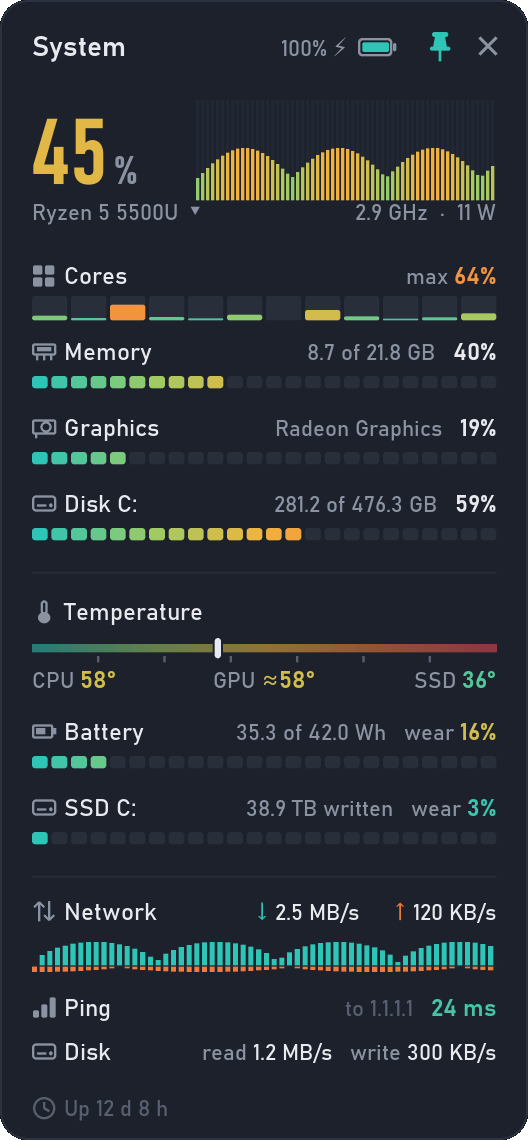
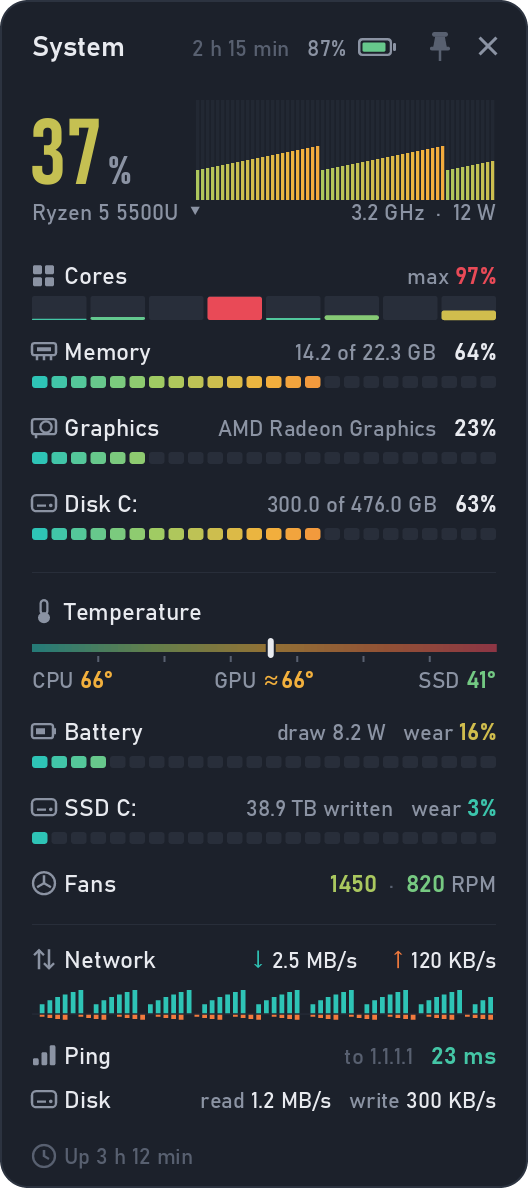
Website: today's pictures, and in Russian on ru.html
The window's pictures (home dark and light, History, a report with
"this game, session by session" and the game's icon) are taken again
from the current build with made-up readings, a game being recorded
and admin rights. The classic widget's pictures still came from 1.8:
the docs example now draws them too (the rows in three groups with the
top cut off, the six widths of "Any shape", the four palettes, the
taskbar panel) with a real processor name. ru.html shows all of them
in Russian from img/ru/ (the tray card's numbers localised); every
<img> carries its picture's size; the PNGs are recompressed losslessly
(8.1 MB of pictures down to 3.4 MB with the Russian ones).

diff --git a/docs/ru.html b/docs/ru.html
@@ -289,11 +289,11 @@
       <p class="news"><b>Новое: PC Monitor 2.0.</b> Переписан с нуля — около 15 МБ памяти вместо 80+, полноценное окно с историей за 30 дней, отчёт о каждой игровой сессии, новый вид виджета и трея. 1.8 обновится сам и сохранит настройки. <a href="https://github.com/vladZah403/pc-widget/releases/latest">Все изменения</a></p>
     </div>
     <div class="pinned">
-      <img src="img/widget-hero.png" width="560" height="648" alt="Виджет PC Monitor: процессор, видеокарта, память и диск C: — кольца с нагрузкой и коротким графиком, скорость сети и пинг">
+      <img src="img/ru/widget-hero.png" width="560" height="648" alt="Виджет PC Monitor: процессор, видеокарта, память и диск C: — кольца с нагрузкой и коротким графиком, скорость сети и пинг">
     </div>
   </div>
   <div class="taskbar" aria-label="Мини-панель на панели задач">
-    <img src="img/taskbar.png" width="503" height="80" alt="Мини-панель: CPU 45%, RAM 40%, скорость загрузки и отдачи, пинг 24 мс, температура процессора и видеокарты">
+    <img src="img/ru/taskbar.png" width="501" height="80" alt="Мини-панель: CPU 37%, RAM 64%, скорость загрузки и отдачи, пинг 23 мс, температура процессора и видеокарты">
     <div class="clock">22:57<br>21.11.2026</div>
   </div>
 </header>
@@ -305,10 +305,10 @@
     <h2>Окно PC Monitor</h2>
     <p>Процессор, видеокарта, память и диск одним взглядом, график нагрузки от минуты до суток, температуры и вентиляторы, сеть и пинг, самые прожорливые программы и игра, в которую ты играешь. Рядом: <strong>История</strong> за 30 дней, <strong>Игры</strong>, <strong>Процессы</strong>, <strong>Оборудование</strong> и <strong>Настройки</strong> — в светлой или тёмной теме. Закроешь окно — виджет, значки в трее и мини-панель продолжат работать.</p>
   </div>
-  <figure class="wide"><img src="img/window.png" width="1280" height="800" alt="Окно PC Monitor: процессор 21%, видеокарта 35%, память 42%, диск C: занят на 76%, график нагрузки, температуры, сеть, прожорливые программы и записываемая игровая сессия"></figure>
+  <figure class="wide"><img src="img/ru/window.png" width="1280" height="800" alt="Окно PC Monitor: процессор 37%, видеокарта 23%, память 64%, диск C: занят на 63%, график нагрузки, температуры, сеть, прожорливые программы и записываемая игровая сессия"></figure>
   <div class="pair">
-    <img src="img/window-light.png" width="1280" height="800" alt="То же окно в светлой теме">
-    <img src="img/history-page.png" width="1280" height="800" alt="История: средние и пиковые значения за последний час, графики нагрузки процессора и видеокарты, температур, памяти и сети">
+    <img src="img/ru/window-light.png" width="1280" height="800" alt="То же окно в светлой теме">
+    <img src="img/ru/history-page.png" width="1280" height="800" alt="История: средние и пиковые значения за последний час, графики нагрузки процессора и видеокарты, температур, памяти и сети">
   </div>
 </section>
 
@@ -319,7 +319,7 @@
     <h2>Виджет — если хочешь</h2>
     <p>Включается в Настройках или клавишами <strong>Ctrl+Alt+W</strong>. Новый вид <strong>«Карточки»</strong>, тёмный или светлый, или компактный список — или <strong>«Классический»</strong> виджет из 1.8 со всем, что в нём было (ниже).</p>
   </div>
-  <figure class="wide plain"><img src="img/widget-cards.png" width="1380" height="558" alt="Виджет в виде «Карточки», тёмный и светлый, и его компактный список"></figure>
+  <figure class="wide plain"><img src="img/ru/widget-cards.png" width="1380" height="558" alt="Виджет в виде «Карточки», тёмный и светлый, и его компактный список"></figure>
 </section>
 
 <div class="meter" aria-hidden="true"></div>
@@ -331,7 +331,7 @@
   </div>
   <div class="groups">
     <div style="--dot: var(--cool)">
-      <figure class="slice"><img src="img/glance-load.png" width="524" height="308" alt="Строки виджета: ядра, память, видеокарта и диски"></figure>
+      <figure class="slice"><img src="img/ru/glance-load.png" width="496" height="308" alt="Строки виджета: ядра, память, видеокарта и диски"></figure>
       <h3>Нагрузка</h3>
       <ul>
         <li><strong>Процессор</strong> с гистограммой за минуту, частотой и мощностью</li>
@@ -341,7 +341,7 @@
       </ul>
     </div>
     <div style="--dot: var(--warm)">
-      <figure class="slice"><img src="img/glance-sensors.png" width="524" height="276" alt="Строки виджета: температуры, батарея и SSD"></figure>
+      <figure class="slice"><img src="img/ru/glance-sensors.png" width="496" height="276" alt="Строки виджета: температуры, батарея и SSD"></figure>
       <h3>Датчики</h3>
       <ul>
         <li><strong>Температура процессора, видеокарты и SSD</strong></li>
@@ -351,7 +351,7 @@
       </ul>
     </div>
     <div style="--dot: var(--max)">
-      <figure class="slice"><img src="img/glance-network.png" width="524" height="188" alt="Строки виджета: график сети, пинг и активность диска"></figure>
+      <figure class="slice"><img src="img/ru/glance-network.png" width="496" height="188" alt="Строки виджета: график сети, пинг и активность диска"></figure>
       <h3>Сеть</h3>
       <ul>
         <li><strong>Загрузка и отдача</strong> с графиком за минуту</li>
@@ -372,7 +372,7 @@
   </div>
   <div class="stage" id="stage">
     <div class="frame" id="frame">
-      <img id="shape" src="img/shape-264.png" width="528" height="1140" alt="Виджет шириной 264 px: одна колонка">
+      <img id="shape" src="img/ru/shape-264.png" width="528" height="1188" alt="Виджет шириной 264 px: одна колонка">
       <button class="edge" id="edge" type="button" aria-label="Потяни, чтобы сделать виджет шире или уже"></button>
     </div>
   </div>
@@ -389,7 +389,7 @@
     <h2>Трей и панель задач</h2>
     <p>До трёх цифр в трее на цветных квадратах — процессор, температура, память, видеокарта. Наведи — появится карточка с подробностями, нажми — откроется окно. Мини-панель на панели задач показывает такую же карточку.</p>
   </div>
-  <figure class="wide plain"><img src="img/tray-card.png" width="1118" height="330" alt="Значки в трее 12, 42, 97 и 66 градусов и карточка процессора в тёмной и светлой теме: нагрузка, температура, частота, самая прожорливая программа"></figure>
+  <figure class="wide plain"><img src="img/ru/tray-card.png" width="1118" height="330" alt="Значки в трее 12, 42, 97 и 66 градусов и карточка процессора в тёмной и светлой теме: нагрузка, температура, частота, самая прожорливая программа"></figure>
 </section>
 
 <div class="meter" aria-hidden="true"></div>
@@ -401,7 +401,7 @@
     <p>Каждая игра записывается. После неё — <strong>отчёт</strong>: средний FPS и просадки, подтормаживания, нагрузка и температуры по времени, что ограничивало FPS, твоя заметка, сравнение с другой сессией и CSV с каждым кадром.</p>
   </div>
   <div class="games-pic">
-    <img src="img/fps-looks.png" width="1689" height="444" alt="FPS-панель поверх игры: карточкой в левом верхнем углу и одной строкой внизу">
+    <img src="img/ru/fps-looks.png" width="1706" height="444" alt="FPS-панель поверх игры: карточкой в левом верхнем углу и одной строкой внизу">
     <p class="caption">Включи оконный режим или «окно без рамки»: поверх эксклюзивного полноэкранного режима Windows не даёт ничего рисовать.</p>
   </div>
 </section>
@@ -409,7 +409,7 @@
 <div class="meter" aria-hidden="true"></div>
 
 <section>
-  <figure class="wide"><img src="img/report.png" width="1280" height="800" alt="Отчёт об игровой сессии: средний FPS 52, 1% low 37, подтормаживаний меньше 0,1%, графики FPS и времени кадра и что ограничивает FPS — видеокарта"></figure>
+  <figure class="wide"><img src="img/ru/report.png" width="1280" height="800" alt="Отчёт об игровой сессии: средний FPS 52, 1% low 37, подтормаживаний меньше 0,1%, эта игра по сессиям, графики FPS и времени кадра и что ограничивает FPS — видеокарта"></figure>
 </section>
 
 <div class="meter" aria-hidden="true"></div>
@@ -420,10 +420,10 @@
     <p>Светлое или тёмное окно. Для виджета: «Карточки» или «Классический», три палитры или два своих цвета, любой размер от 80 до 200%, компактный режим, любая прозрачность; закрепи его на рабочем столе или держи поверх окон. Два профиля, «Работа» и «Игра», у каждого свой вид — «Игра» включается сама, пока ты играешь. Интерфейс на русском, английском, украинском и немецком.</p>
   </div>
   <div class="themes">
-    <figure><img src="img/theme-heat.png" width="528" height="356" alt="Компактный виджет, палитра «Тепло»"><figcaption>Тепло</figcaption></figure>
-    <figure><img src="img/theme-neon.png" width="528" height="356" alt="Компактный виджет, палитра «Неон»"><figcaption>Неон</figcaption></figure>
-    <figure><img src="img/theme-ice.png" width="528" height="356" alt="Компактный виджет, палитра «Лёд»"><figcaption>Лёд</figcaption></figure>
-    <figure><img src="img/theme-custom.png" width="528" height="356" alt="Компактный виджет, свои цвета"><figcaption>Свои цвета</figcaption></figure>
+    <figure><img src="img/ru/theme-heat.png" width="528" height="356" alt="Компактный виджет, палитра «Тепло»"><figcaption>Тепло</figcaption></figure>
+    <figure><img src="img/ru/theme-neon.png" width="528" height="356" alt="Компактный виджет, палитра «Неон»"><figcaption>Неон</figcaption></figure>
+    <figure><img src="img/ru/theme-ice.png" width="528" height="356" alt="Компактный виджет, палитра «Лёд»"><figcaption>Лёд</figcaption></figure>
+    <figure><img src="img/ru/theme-custom.png" width="528" height="356" alt="Компактный виджет, свои цвета"><figcaption>Свои цвета</figcaption></figure>
   </div>
 </section>
 
@@ -481,12 +481,12 @@
   const stage = document.getElementById("stage"), frame = document.getElementById("frame");
   const img = document.getElementById("shape"), edge = document.getElementById("edge");
   const range = document.getElementById("width"), readout = document.getElementById("readout");
-  widths.forEach(w => { const pre = new Image(); pre.src = `img/shape-${w}.png`; });
+  widths.forEach(w => { const pre = new Image(); pre.src = `img/ru/shape-${w}.png`; });
   let step = 0, touched = false;
   const show = i => {
     step = Math.max(0, Math.min(widths.length - 1, i));
     const w = widths[step];
-    img.src = `img/shape-${w}.png`;
+    img.src = `img/ru/shape-${w}.png`;
     img.alt = `Виджет шириной ${w} px: ${words[step]}`;
     frame.style.width = w + "px";
     range.value = step;

diff --git a/docs/index.html b/docs/index.html
@@ -293,7 +293,7 @@
     </div>
   </div>
   <div class="taskbar" aria-label="The mini panel on the taskbar">
-    <img src="img/taskbar.png" width="503" height="80" alt="Taskbar panel: CPU 45%, RAM 40%, download and upload speed, ping 24 ms, CPU and GPU temperature">
+    <img src="img/taskbar.png" width="508" height="80" alt="Taskbar panel: CPU 37%, RAM 64%, download and upload speed, ping 23 ms, CPU and GPU temperature">
     <div class="clock">22:57<br>21.11.2026</div>
   </div>
 </header>
@@ -305,7 +305,7 @@
     <h2>The PC Monitor window</h2>
     <p>Processor, graphics card, memory and drive at a glance, a load chart from one minute to a day, temperatures and fans, network and ping, the busiest programs and the game you are playing. Beside it: <strong>History</strong> for 30 days, <strong>Games</strong>, <strong>Processes</strong>, <strong>Hardware</strong> and <strong>Settings</strong> — light or dark. Close it, and the widget, tray icons and taskbar panel keep going.</p>
   </div>
-  <figure class="wide"><img src="img/window.png" width="1280" height="800" alt="The PC Monitor window: processor 21%, graphics 35%, memory 42%, drive C: 76% used, a load chart, temperatures, network, busiest programs and a game session being recorded"></figure>
+  <figure class="wide"><img src="img/window.png" width="1280" height="800" alt="The PC Monitor window: processor 37%, graphics 23%, memory 64%, drive C: 63% used, a load chart, temperatures, network, busiest programs and a game session being recorded"></figure>
   <div class="pair">
     <img src="img/window-light.png" width="1280" height="800" alt="The same window in the light theme">
     <img src="img/history-page.png" width="1280" height="800" alt="History: averages and peaks of the last hour, CPU and GPU load, temperatures, memory and network charts">
@@ -331,7 +331,7 @@
   </div>
   <div class="groups">
     <div style="--dot: var(--cool)">
-      <figure class="slice"><img src="img/glance-load.png" width="524" height="308" alt="Cores, memory, graphics and disk rows of the widget"></figure>
+      <figure class="slice"><img src="img/glance-load.png" width="496" height="308" alt="Cores, memory, graphics and disk rows of the widget"></figure>
       <h3>Load</h3>
       <ul>
         <li><strong>Processor</strong> with a one-minute histogram, clock and power</li>
@@ -341,7 +341,7 @@
       </ul>
     </div>
     <div style="--dot: var(--warm)">
-      <figure class="slice"><img src="img/glance-sensors.png" width="524" height="276" alt="Temperature, battery and SSD rows of the widget"></figure>
+      <figure class="slice"><img src="img/glance-sensors.png" width="496" height="276" alt="Temperature, battery and SSD rows of the widget"></figure>
       <h3>Sensors</h3>
       <ul>
         <li><strong>CPU, GPU and SSD temperature</strong></li>
@@ -351,7 +351,7 @@
       </ul>
     </div>
     <div style="--dot: var(--max)">
-      <figure class="slice"><img src="img/glance-network.png" width="524" height="188" alt="Network graph, ping and disk activity rows of the widget"></figure>
+      <figure class="slice"><img src="img/glance-network.png" width="496" height="188" alt="Network graph, ping and disk activity rows of the widget"></figure>
       <h3>Network</h3>
       <ul>
         <li><strong>Download and upload</strong> with a one-minute graph</li>
@@ -372,7 +372,7 @@
   </div>
   <div class="stage" id="stage">
     <div class="frame" id="frame">
-      <img id="shape" src="img/shape-264.png" width="528" height="1140" alt="The widget, 264 px wide: one column">
+      <img id="shape" src="img/shape-264.png" width="528" height="1188" alt="The widget, 264 px wide: one column">
       <button class="edge" id="edge" type="button" aria-label="Drag to make the widget wider or narrower"></button>
     </div>
   </div>
@@ -409,7 +409,7 @@
 <div class="meter" aria-hidden="true"></div>
 
 <section>
-  <figure class="wide"><img src="img/report.png" width="1280" height="800" alt="A game session's report: average FPS 52, 1% low 37, stutters under 0.1%, charts of FPS and frame time, and what limits the FPS: the graphics card"></figure>
+  <figure class="wide"><img src="img/report.png" width="1280" height="800" alt="A game session's report: average FPS 52, 1% low 37, stutters under 0.1%, this game session by session, charts of FPS and frame time, and what limits the FPS: the graphics card"></figure>
 </section>
 
 <div class="meter" aria-hidden="true"></div>

diff --git a/crates/pcm-render/examples/docs.rs b/crates/pcm-render/examples/docs.rs
@@ -3,7 +3,7 @@
 //! (the PC Monitor window's pages come from `PC-Monitor.exe --dashboard
 //! --offscreen --screenshot`).
 
-use pcm_render::format::{set_language, tr};
+use pcm_render::format::{dec, set_language, tr, trf};
 use pcm_render::overlay::{Look, preview, sample_game};
 use pcm_render::text::Fonts;
 use pcm_render::theme::{DARK_INK, LIGHT_INK, Theme};
@@ -76,8 +76,8 @@ fn main() {
         let rows = vec![
             (tr("Нагрузка"), "12%".to_string(), sc.at(0.12)),
             (tr("Температура"), "42°C".to_string(), sc.heat(42.0)),
-            (tr("Частота"), "3.84 GHz".to_string(), text),
-            (tr("Больше всего"), "chrome · 1.6%".to_string(), text),
+            (tr("Частота"), trf("{v} ГГц", &[("v", dec("3.84".to_string()))]), text),
+            (tr("Больше всего"), format!("chrome · {}%", dec("1.6".to_string())), text),
         ];
         pics.push(
             hover_card(&mut fonts, s, &tr("Процессор"), &rows, &tr("Клик — открыть PC Monitor"), light)
@@ -100,4 +100,72 @@ fn main() {
     }
     pics.push(icons);
     save(&row(&pics, s), "tray");
+
+    // the classic widget at twice the size: its rows in three groups (the
+    // hero cut off), six widths, the four palettes, and the taskbar panel
+    let mut r = Renderer::new(&mut fonts);
+    // the processor's name as a real one reads (the sample's is a placeholder)
+    let d = pcm_render::widget::Data { cpu_name: "Ryzen 5 5500U".into(), ..d.clone() };
+    const ALL: [&str; 13] = [
+        "cores",
+        "ram",
+        "gpu",
+        "disks",
+        "temps",
+        "battery",
+        "ssd",
+        "fans",
+        "net",
+        "net_graph",
+        "ping",
+        "disk_io",
+        "uptime",
+    ];
+    let only =
+        |keep: &[&str]| ALL.iter().filter(|k| !keep.contains(k)).map(|k| k.to_string()).collect::<Vec<_>>();
+    for (name, keep) in [
+        ("glance-load", &["cores", "ram", "gpu", "disks"][..]),
+        ("glance-sensors", &["temps", "battery", "ssd"][..]),
+        ("glance-network", &["net", "net_graph", "ping", "disk_io"][..]),
+    ] {
+        let pm =
+            r.render(&d, &View { scale: 2.0, hidden: only(keep), ..View::default() }).expect("render").pm;
+        save(&rows_only(&pm, 2.0), name);
+    }
+    for w in [264.0f32, 352.0, 440.0, 528.0, 660.0, 792.0] {
+        let pm = r.render(&d, &View { scale: 2.0, width: w, ..View::default() }).expect("render").pm;
+        save(&pm, &format!("shape-{}", w as u32));
+    }
+    for (name, theme) in [
+        ("theme-heat", Theme::Heat),
+        ("theme-neon", Theme::Neon),
+        ("theme-ice", Theme::Ice),
+        ("theme-custom", Theme::Custom((90, 120, 255), (255, 80, 160))),
+    ] {
+        let pm =
+            r.render(&d, &View { scale: 2.0, compact: true, theme, ..View::default() }).expect("render").pm;
+        save(&pm, name);
+    }
+    let bar =
+        pcm_render::widget::taskbar_panel(&mut fonts, 2.0, &d, &Theme::Heat, false, 80, None).expect("panel");
+    save(&bar, "taskbar");
+}
+
+/// The rows of a classic widget, without its top (the big number) and its
+/// rounded frame: what the website shows of each group.
+fn rows_only(pm: &Pixmap, scale: f32) -> Pixmap {
+    let top = (pcm_render::widget::HERO_H * scale) as u32;
+    let side = (8.0 * scale) as u32;
+    let w = pm.width() - 2 * side;
+    let h = pm.height().saturating_sub(top + side);
+    let mut out = Pixmap::new(w, h).unwrap();
+    out.draw_pixmap(
+        -(side as i32),
+        -(top as i32),
+        pm.as_ref(),
+        &PixmapPaint::default(),
+        Transform::identity(),
+        None,
+    );
+    out
 }
